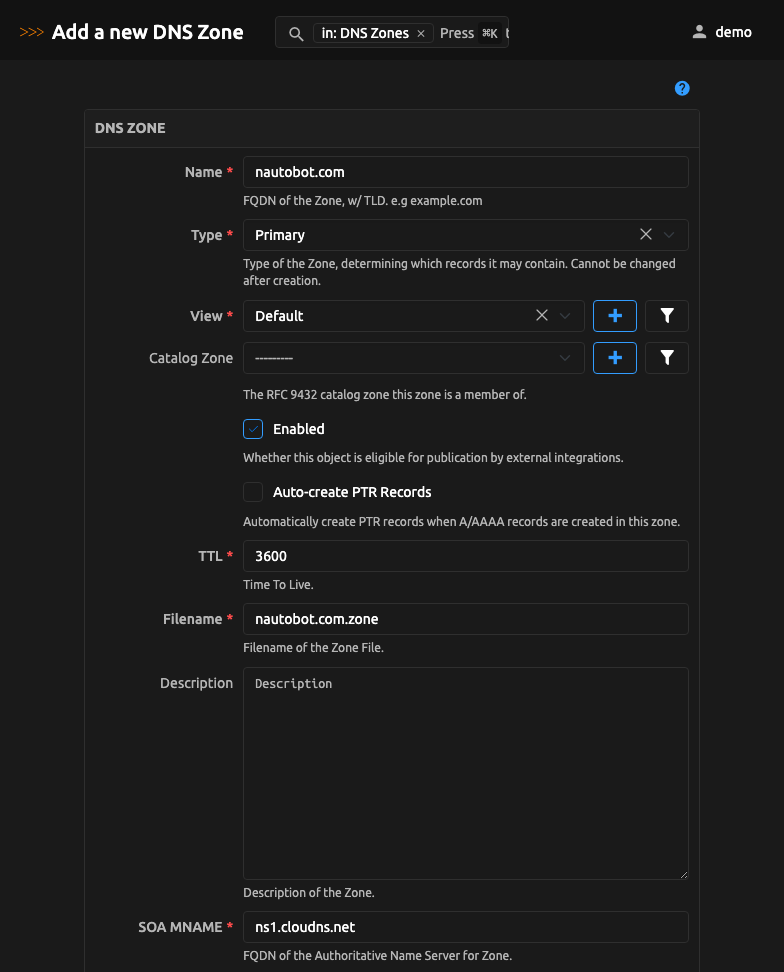
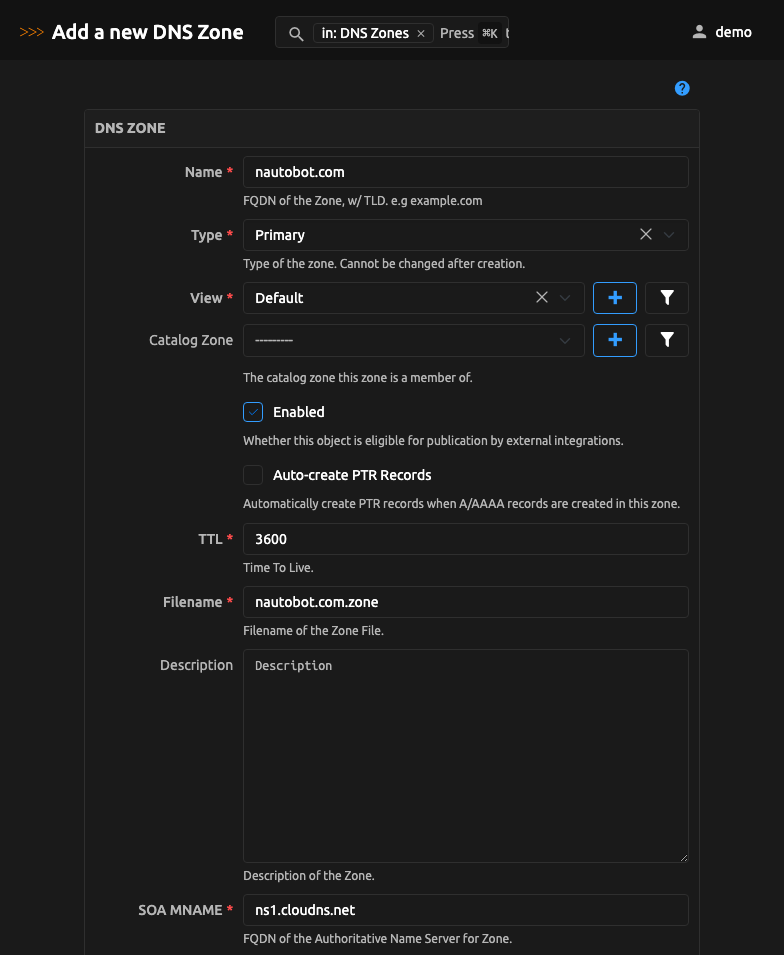
Shorten the DNS zone type help text
Drop "determining which records it may contain" from the type field's help
text and the DNSZoneTypeChoices docstring, and recapture the two add-zone
screenshots that show it.

diff --git a/nautobot_dns_models/models.py b/nautobot_dns_models/models.py
@@ -548,7 +548,7 @@ class DNSZone(DNSModel):
         max_length=50,
         choices=DNSZoneTypeChoices,
         default=DNSZoneTypeChoices.TYPE_PRIMARY,
-        help_text="Type of the Zone, determining which records it may contain. Cannot be changed after creation.",
+        help_text="Type of the zone. Cannot be changed after creation.",
     )
     dns_view = ForeignKeyWithAutoRelatedName(
         DNSView,

diff --git a/nautobot_dns_models/choices.py b/nautobot_dns_models/choices.py
@@ -4,7 +4,7 @@ from nautobot.apps.choices import ChoiceSet
 
 
 class DNSZoneTypeChoices(ChoiceSet):
-    """Type of a DNS Zone, determining which records it may contain."""
+    """Type of a DNS zone."""
 
     TYPE_PRIMARY = "primary"
     TYPE_CATALOG = "catalog"
